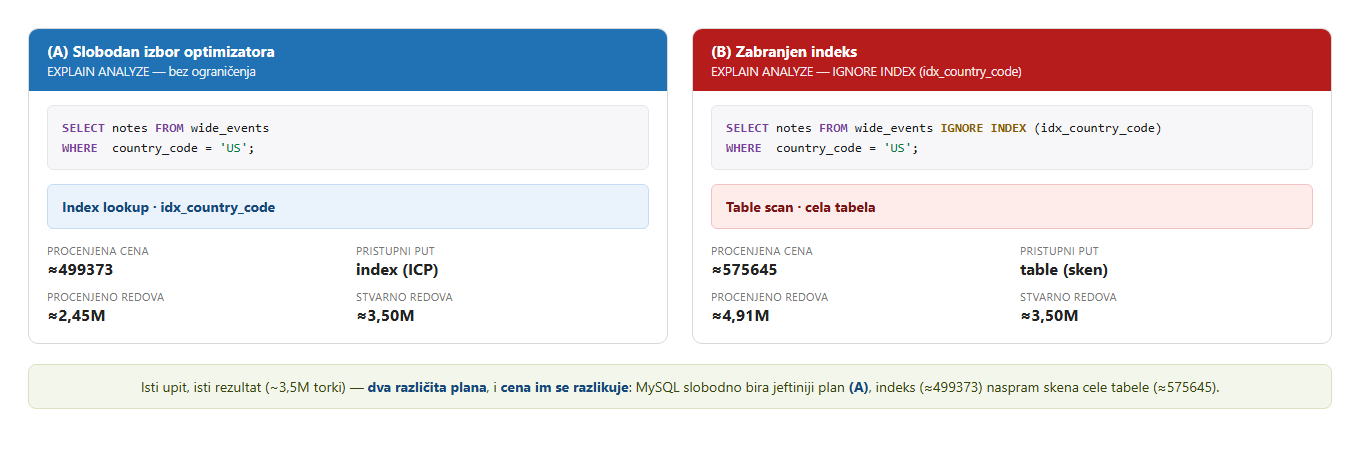
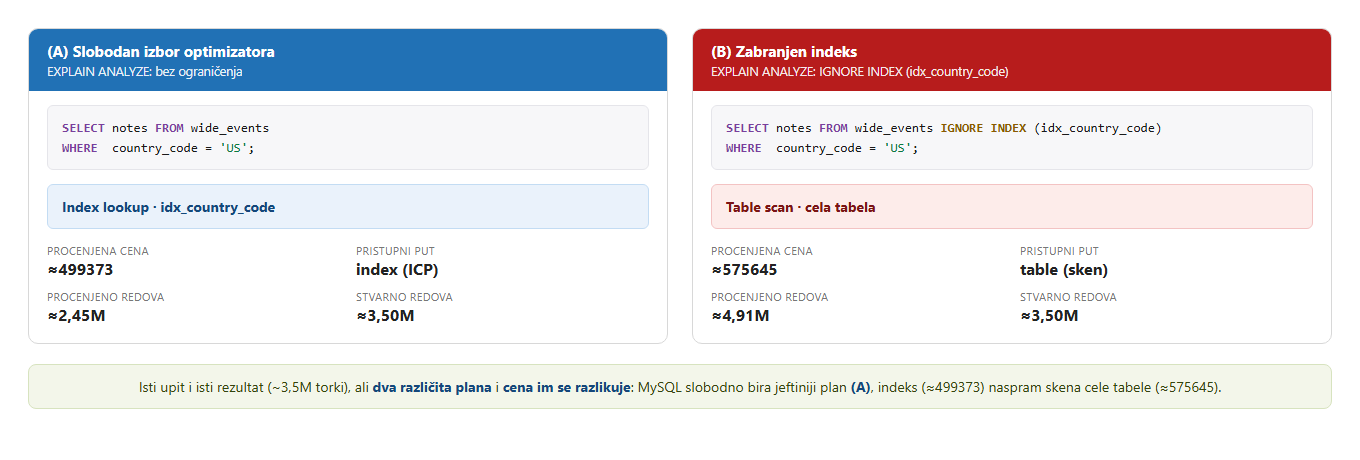
Remove all em dashes from chapter 1 and its figure
Per the user's preference, no em dashes (—) anywhere. Rewrite the seven em
dashes in rad.md's Uvod as colons/commas/parentheses, and replace the three
&mdash; entities in the lesson-01 comparison figure, regenerating the PNG
(costs unchanged: index ~499373 vs table scan ~575645). Regenerate rad.docx.

Record the rule in WORKFLOW.md (rule 8); the academic-research-writer skill
itself was updated separately (it lives outside this repo).

Changed region(s): [[0.0926, 0.8217, 0.8956, 0.8522], [0.5868, 0.1217, 0.7721, 0.1826], [0.0926, 0.1217, 0.1853, 0.1826]]

diff --git a/Tema 1. - Obrada upita (query processing) u MySQL/rad.md b/Tema 1. - Obrada upita (query processing) u MySQL/rad.md
@@ -9,7 +9,7 @@ csl: ieee.csl
 
 Relacione baze podataka nude korisniku deklarativan jezik: SQL upitom opisuje se *šta* se traži
 kao rezultat, ali ne i *kako* se do tog rezultata dolazi. Sistem za upravljanje bazom podataka
-(SUBP), s druge strane, ume da izvrši isključivo konkretne fizičke procedure — čitanje i upisivanje
+(SUBP), s druge strane, ume da izvrši isključivo konkretne fizičke procedure: čitanje i upisivanje
 stranica na disku, prolazak kroz B+ stablo, sken tabele nad neuređenim fajlom. Obrada upita (query
 processing) obuhvata sve što SUBP radi da bi premostio taj jaz između deklarativnog opisa i fizičkog
 izvršenja; upravo je teret efikasnog odgovaranja na upite time prebačen sa korisnika na sistem
@@ -19,10 +19,10 @@ Jaz se premošćuje optimizacijom na dva nivoa jednog istog problema. Na
 višem, logičkom nivou, polazni izraz relacione algebre preformuliše se u ekvivalentan izraz koji se
 brže izvršava: spuštanjem selekcija naniže, izmenom redosleda spoja ili sažimanjem operacija menja se
 *oblik* izračunavanja, ali nikada sam rezultat. Na nižem, fizičkom nivou, za svaki operator bira se
-konkretan algoritam i pristupni put — sken tabele naspram skena preko indeksa, odnosno spoj sa
+konkretan algoritam i pristupni put: sken tabele naspram skena preko indeksa, odnosno spoj sa
 ugnježdenom petljom, Sort-Merge spoj ili Hash spoj. Pošto ne postoji univerzalno superiorna tehnika,
 najpovoljniji izbor zavisi od svojstava samih podataka. Oba nivoa vođena su
-istim merilom — cenom, procenom količine posla, pre svega ulazno-izlaznih operacija — i taj
+istim merilom, cenom (procenom količine posla, pre svega ulazno-izlaznih operacija), i taj
 zajednički cilj čini ih dvama nivoima jednog problema, a ne dvama odvojenim problemima
 [@ramakrishnan2003].
 
@@ -41,16 +41,16 @@ od približno 3,5 miliona torki.](figures/01-uvod-01-jedan-upit-dva-plana.png)
 
 Slika 1.1 prikazuje ovu pojavu na konkretnom upitu nad sintetičkom tabelom `wide_events`. Isti upit
 `SELECT notes FROM wide_events WHERE country_code = 'US'` MySQL izvršava skenom preko indeksa
-`idx_country_code`, dok se zabranjivanjem tog indeksa dobija sken cele tabele — skuplji plan koji
+`idx_country_code`, dok se zabranjivanjem tog indeksa dobija sken cele tabele, skuplji plan koji
 vraća isti skup od približno 3,5 miliona torki. Iako oba plana daju istovetan rezultat, optimizator
 zadržava jeftiniju varijantu; upravo je ta logika izbora predmet poglavlja koja slede.
 
-Ostatak rada prati istu nit — put od deklarativnog SQL upita do njegovog fizičkog izvršenja u
+Ostatak rada prati istu nit, put od deklarativnog SQL upita do njegovog fizičkog izvršenja u
 MySQL-u:
 
 - U poglavlju 2 opisuje se **arhitektura obrade upita u MySQL-u**: komponente koje premošćuju jaz
   (parser, optimizator, izvršni mehanizam i katalog) i način na koji ih MySQL povezuje.
-- U poglavlju 3 dva nivoa optimizacije prikazuju se opipljivo — kao **put od SQL-a do plana
+- U poglavlju 3 dva nivoa optimizacije prikazuju se opipljivo, kao **put od SQL-a do plana
   izvršavanja**, od upita, preko preformulacije relacione algebre, do fizičkog plana nad stvarnim
   primerom.
 - Poglavlje 4 uvodi **EXPLAIN i EXPLAIN ANALYZE**, alate kojima se izabrani plan čini vidljivim i
@@ -61,7 +61,7 @@ MySQL-u:
   izvršavanju torku po torku, kao i položaj MySQL-a u odnosu na nju.
 - Poglavlje 7 ispituje **paralelno izvršavanje upita**, korišćenje više procesorskih jezgara za
   jedan upit i stvarne granice paralelnosti u MySQL-u.
-- Poglavlje 8 obrađuje **keširanje i ponovnu upotrebu planova** — pitanje može li se izabrani plan
+- Poglavlje 8 obrađuje **keširanje i ponovnu upotrebu planova**: pitanje može li se izabrani plan
   ponovo iskoristiti umesto da se računa iznova i šta MySQL zapravo kešira (keš plana, plan cache).
 - Poglavlje 9 donosi **zaključak**, provlačeći nit do kraja, od deklarativnog SQL-a nazad do
   fizičkog izvršenja.

diff --git a/Tema 1. - Obrada upita (query processing) u MySQL/WORKFLOW.md b/Tema 1. - Obrada upita (query processing) u MySQL/WORKFLOW.md
@@ -114,6 +114,9 @@ Roughly 7-9 lessons total.
    SUBP slides). They are for *learning* only. When a claim comes from a deck, cite its published
    origin instead - Ramakrishnan & Gehrke for the theory, the MySQL manual for anything
    MySQL-specific (policy set 2026-08-22, applies to every chapter).
+8. **Never use the em dash (—)** anywhere in the paper or its figures. Use a comma, colon, or
+   parentheses, or restructure the sentence (policy set 2026-08-22; also baked into the
+   `academic-research-writer` skill). Applies to `rad.md` and to figure text.
 
 ---
 
